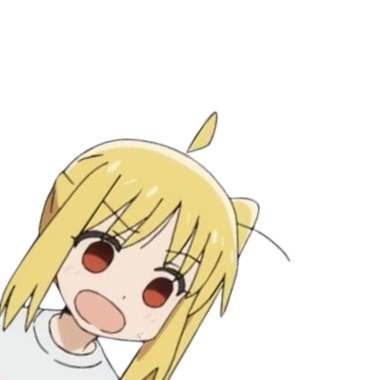
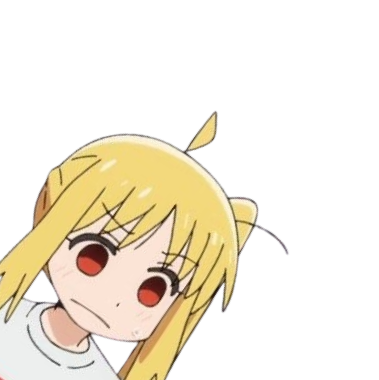
Changes image when clicked

diff --git a/src/JS/main.js b/src/JS/main.js
@@ -9,16 +9,12 @@ const ctx = canvas.getContext("2d");
 canvas.width = window.innerWidth;
 canvas.height = window.innerHeight;
 
-
-
-
-
 // Setting Ahoge
 const ahoge = [];
 const ahogeCount = 0;
 const baseForce = 40;
 const damping = 0.98;
-const maxDistance = 800; // Jarak maksimum untuk gaya tarik
+const maxDistance = 400; // Jarak maksimum untuk gaya tarik
 
 let magnet = { x: null, y: null, statusMaget: false };
 let rotationSpeedRange = { min: 0, max: 5 };
@@ -29,9 +25,13 @@ const ahogeImage = new Image();
 ahogeImage.src = "/public/assets/image/ahoge.webp";
 
 // deklarasi gambar nijika
+let nijikaCondition = false;
+const nijikaImage = [
+  "/public/assets/image/nijika-0.png",
+  "/public/assets/image/nijika-1.png",
+];
 const nijika = new Image();
-nijika.src = "/public/assets/image/nijika-1.png";
-
+nijika.src = nijikaImage[+nijikaCondition];
 // deklarasi gambar log
 const logo = new Image();
 logo.src = "/public/assets/image/Kessoku_Band_Logo.svg";
@@ -47,7 +47,6 @@ let targetY = 115; // Posisi y ahoge dalam gambar asli
 let targetWidth = 30; // Lebar area ahoge
 let targetHeight = 40; // Tinggi area ahoge
 
-
 if (window.innerWidth < 430) {
   // Ubah Ukuran gambar nijika
   nijika.width = 200;
@@ -58,8 +57,6 @@ if (window.innerWidth < 430) {
   logo.height = 250;
 
   // Ubah ukuran partikel ahoge
-
-
 
   // Ubah target button ahode
   targetX = 100; // Posisi x ahoge dalam gambar asli
@@ -157,7 +154,7 @@ function animateAhoge() {
   drawText(counterAhoge, 50, 50);
 
   // gambar nijika
-
+  nijika.src = nijikaImage[+nijikaCondition]
   drawImage(
     ctx,
     nijika,
@@ -167,6 +164,7 @@ function animateAhoge() {
     nijika.width,
     nijika.height
   );
+
   // Gambar logo
   drawImage(
     ctx,
@@ -190,19 +188,16 @@ function animateAhoge() {
       magnetImage.width,
       magnetImage.height
     );
-
   }
 
-  if(isOn){ 
-    const index =  Math.floor(Math.random() * ahogeToRemove.length); // Pilih index acak
+  if (isOn && ahoge.length > 10) {
+    const index = Math.floor(Math.random() * ahogeToRemove.length); // Pilih index acak
     ahoge.splice(index, 1); // Hapus dari array particles
   }
 
-
-
   handleCollisions();
 
-  ahoge.forEach((p,index) => {
+  ahoge.forEach((p, index) => {
     // Update posisi berdasarkan kecepata
 
     // Jika magnet aktif, tarik ahoge ke magnet
@@ -225,13 +220,11 @@ function animateAhoge() {
         p.vy += forceDirectionY * force;
         p.vx *= damping;
         p.vy *= damping;
-        if(distance < 51){
+        if (distance < 51) {
           ahogeToRemove.push(index);
         }
       }
-
     }
-
 
     p.x += p.vx;
     p.y += p.vy;
@@ -253,9 +246,9 @@ function animateAhoge() {
     ctx.save();
     ctx.translate(p.x, p.y);
     ctx.rotate((p.rotation * Math.PI) / 180);
-    const ahogeWidth = window.innerWidth < 420 ? 20 :40;
-    const ahogeHeight = window.innerWidth < 420 ? 20 :40;
-    ctx.drawImage(ahogeImage, -15, -15,ahogeWidth, ahogeHeight);
+    const ahogeWidth = window.innerWidth < 420 ? 20 : 40;
+    const ahogeHeight = window.innerWidth < 420 ? 20 : 40;
+    ctx.drawImage(ahogeImage, -15, -15, ahogeWidth, ahogeHeight);
     ctx.restore();
   });
   requestAnimationFrame(animateAhoge);
@@ -272,8 +265,7 @@ function startInterval() {
 
       // Mengubah status switch
       isOn = !isOn; // Toggle status
-      console.log(`Switch is now: ${isOn ? 'ON' : 'OFF'}`);
-
+      console.log(`Switch is now: ${isOn ? "ON" : "OFF"}`);
     }
   }, intervalTime);
 }
@@ -283,8 +275,6 @@ canvas.addEventListener("click", (event) => {
   const rect = canvas.getBoundingClientRect();
   const x = event.clientX - rect.left;
   const y = event.clientY - rect.top;
-
-
 
   const imgWidth = nijika.width;
   const imgHeight = nijika.height;
@@ -306,6 +296,13 @@ canvas.addEventListener("click", (event) => {
   ) {
     const soundAhoge = new Audio("/public/assets/sound/happy-pop-2-185287.mp3");
     soundAhoge.play();
+
+    const originalValue = nijikaCondition; // simpan nilai asli
+    nijikaCondition = !nijikaCondition; // ubah nilai
+    // Tunggu 100ms sebelum mengembalikan nilai asli
+    setTimeout(() => {
+      nijikaCondition = originalValue;
+    }, 300);
     createAhoge(x, y);
   }
   // console.log(`Mouse: (${mouseX}, ${mouseY}) | Target: X(${xStart}-${xEnd}), Y(${yStart}-${yEnd})`);
@@ -335,8 +332,6 @@ canvas.addEventListener("click", (event) => {
 
 // Mulai animasi
 // updateCounterChip();
-
-
 
 setInterval(() => {
   if (magnet.statusMaget) {
